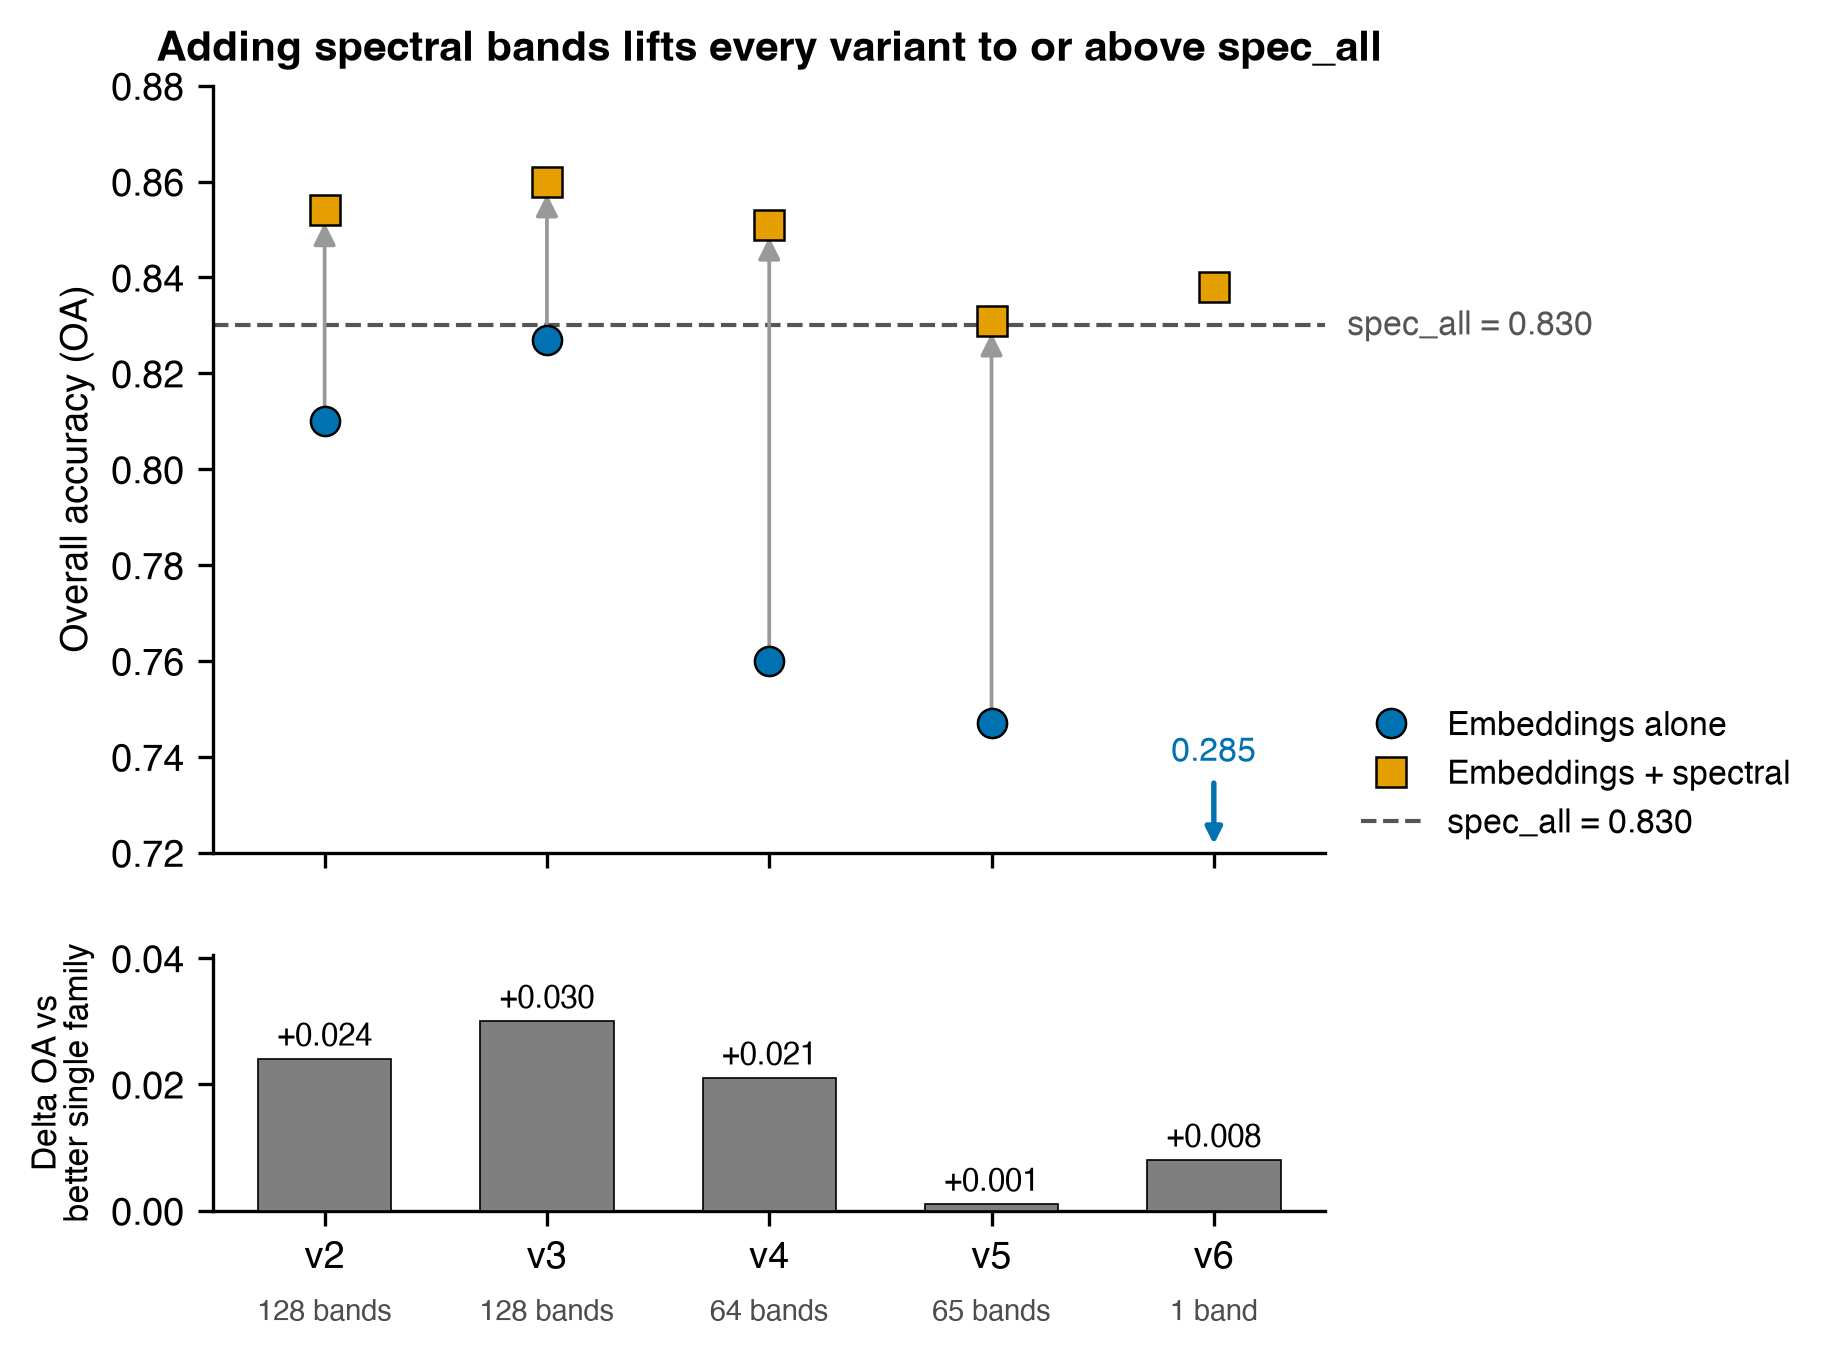
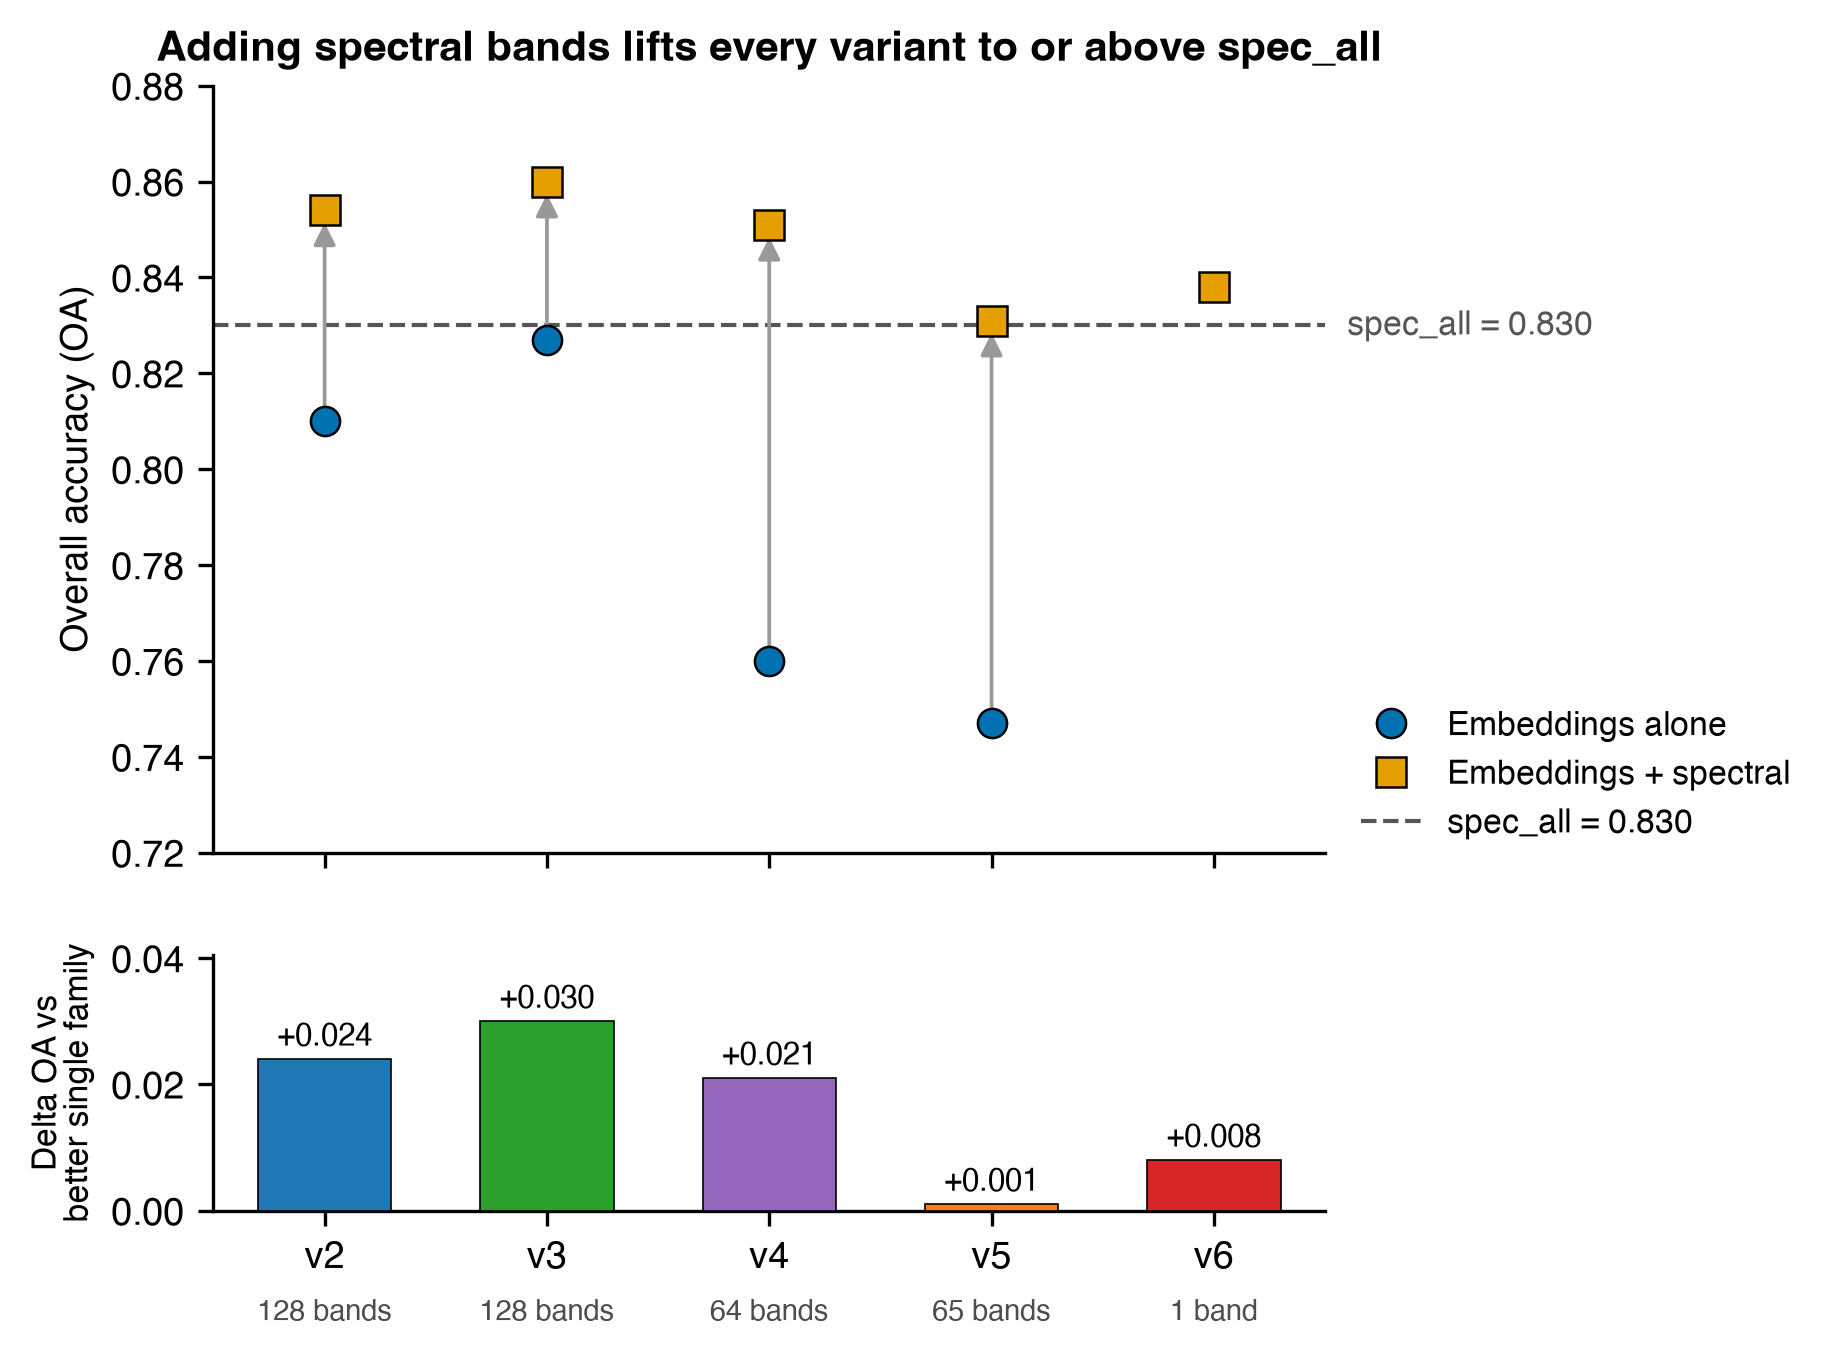
variant-composition figure: color delta bars by variant, drop v6 floor arrow
Color the delta_vs_best bars with the repo per-variant palette instead of
a single neutral grey, and remove the 0.285 blue clipped arrow for v6 from
the compressed top panel.

diff --git a/presentation/scripts/plot_variant_composition.py b/presentation/scripts/plot_variant_composition.py
@@ -49,8 +49,10 @@ SPEC_ALL = 0.830  # shared spectral-only reference, identical for every variant
 EMB_COLOR = "#0072B2"      # blue, embeddings alone
 COMBO_COLOR = "#E69F00"    # orange, embeddings plus spectral
 REF_COLOR = "#555555"      # neutral grey, reference line
-BAR_COLOR = "#7F7F7F"      # neutral grey, delta bars
 CONNECT_COLOR = "#999999"  # light grey, dumbbell connector
+
+# per-variant palette, matching the convention used elsewhere in the repo
+VPAL = {"v2": "#1f77b4", "v3": "#2ca02c", "v4": "#9467bd", "v5": "#ff7f0e", "v6": "#d62728"}
 
 EMB_MARKER = "o"           # circle
 COMBO_MARKER = "s"         # square, a distinct shape so the figure survives greyscale
@@ -94,12 +96,8 @@ def draw_dumbbell(ax, x, ylo=None, clip_v6=False):
     # plot both endpoints and their connector for every variant on the given axis
     for xi, r in zip(x, DATA):
         if clip_v6 and r["variant"] == "v6":
-            # combo stays on scale, but emb_alone is far below, so mark it as a clipped arrow at the floor
+            # combo stays on scale, emb_alone is far below the floor so it is left off this panel
             _marker(ax, xi, r["combo"], COMBO_MARKER, COMBO_COLOR)
-            ax.annotate(f"{r['emb_alone']:.3f}", xy=(xi, ylo), xytext=(xi, ylo + 0.018),
-                        ha="center", va="bottom", fontsize=8, color=EMB_COLOR,
-                        arrowprops=dict(arrowstyle="-|>", color=EMB_COLOR, lw=1.3),
-                        annotation_clip=False)
             continue
         _connector(ax, xi, r["emb_alone"], r["combo"])
         _marker(ax, xi, r["emb_alone"], EMB_MARKER, EMB_COLOR)
@@ -154,9 +152,10 @@ def _xaxis_labels(ax, x):
 
 
 def _panel_b(axB, x):
-    # bar of delta_vs_best in a single neutral color, with value labels at the bar ends
+    # bar of delta_vs_best, colored by variant with the repo palette, value labels at the bar ends
     deltas = [r["delta_vs_best"] for r in DATA]
-    axB.bar(x, deltas, width=0.6, color=BAR_COLOR, edgecolor="black", linewidth=0.4, zorder=3)
+    colors = [VPAL[r["variant"]] for r in DATA]
+    axB.bar(x, deltas, width=0.6, color=colors, edgecolor="black", linewidth=0.4, zorder=3)
     for xi, d in zip(x, deltas):
         axB.annotate(f"+{d:.3f}", xy=(xi, d), xytext=(0, 2), textcoords="offset points",
                      ha="center", va="bottom", fontsize=7.5)
